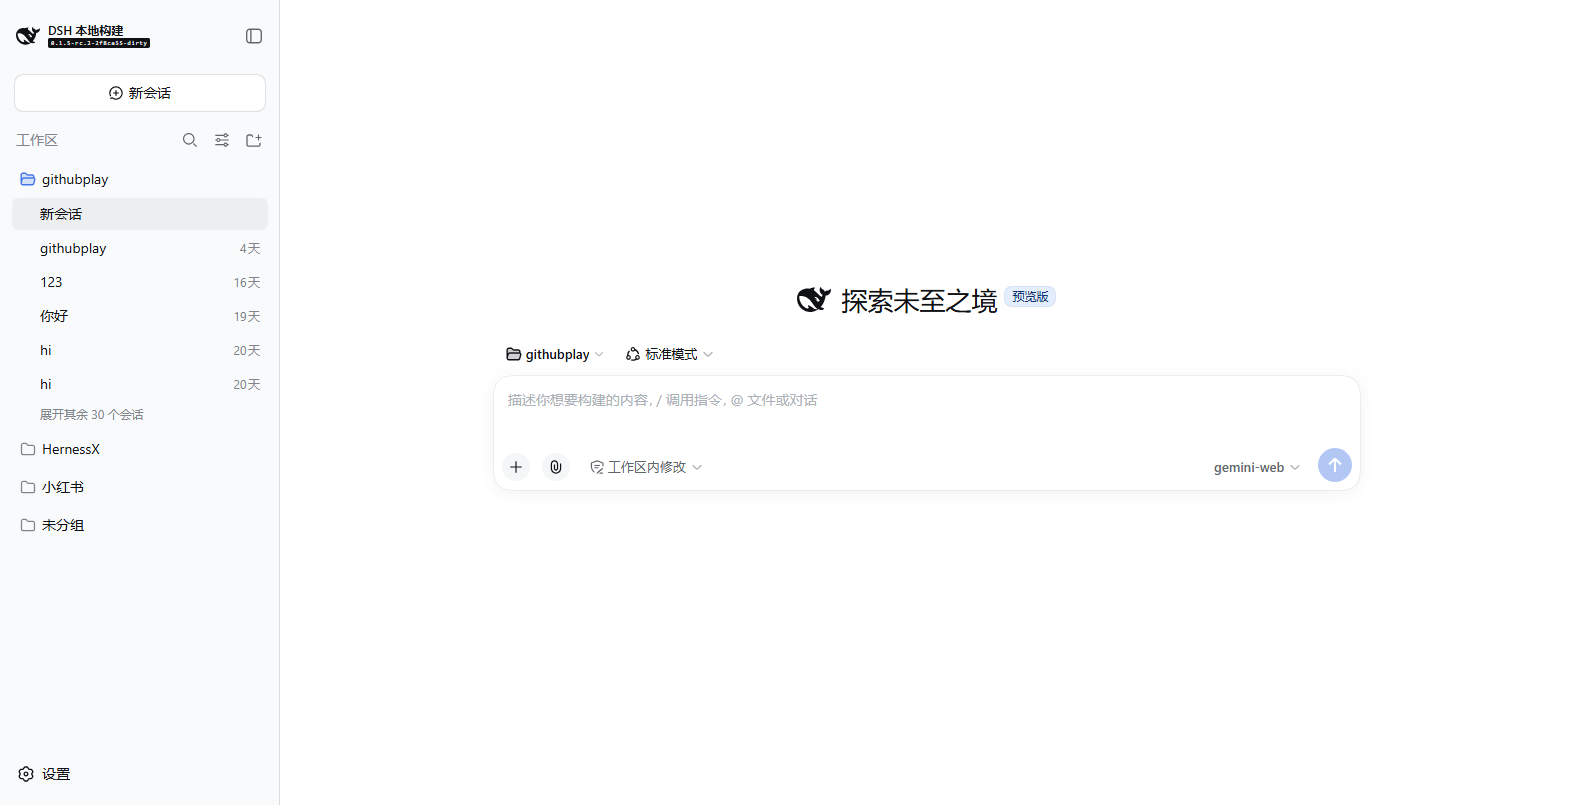
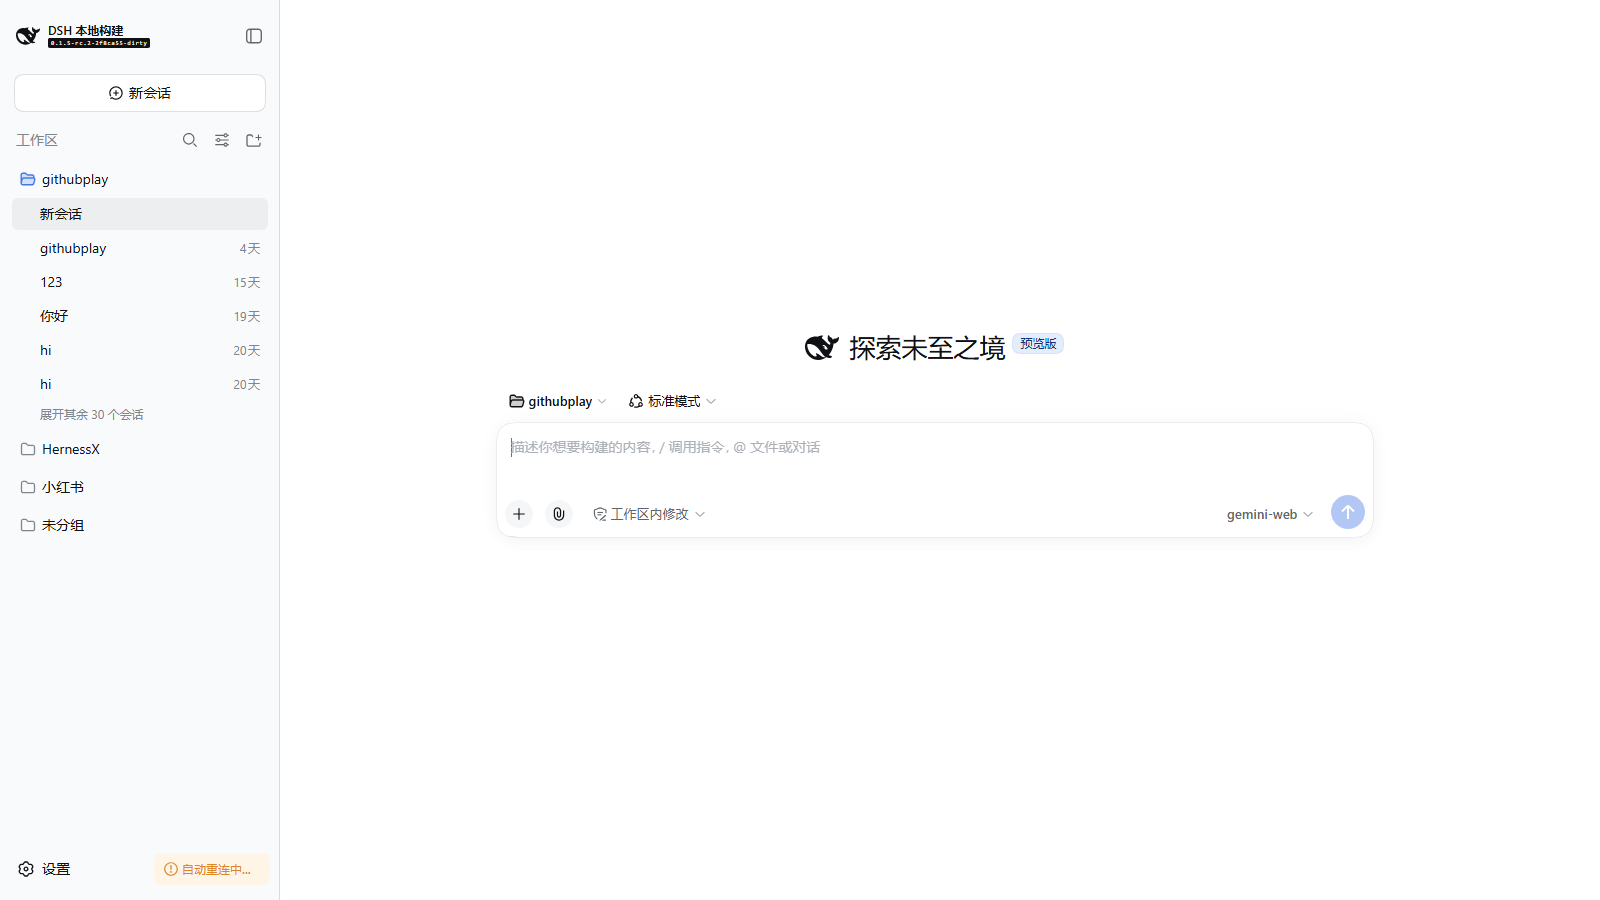
fix: drop the frameless advanced window - native OS frame like compatibility mode
A pixel diff against the kernel's own web profile (running from the
pinned snapshot) showed the interfaces identical except a hard black
strip across the top of the HarnessX window: the transparent/mica/
titleBarOverlay window options from the retired desktop-frame design
left that band above the kernel UI on Windows.

Advanced mode now opens the same native OS frame as compatibility mode
(keeping only the workbench webviewTag), and the body padding that
reserved space for the old overlay is removed. The kernel UI renders
edge to edge exactly as it does in a browser.

diff --git a/tests/window-options.spec.ts b/tests/window-options.spec.ts
@@ -6,7 +6,6 @@ import {
   compatibilityWindowOptions,
   desktopWindowOptions,
 } from '../src/window-options.ts'
-import { WINDOWS_TITLEBAR_HEIGHT } from '../src/window-chrome.ts'
 
 const spec: DesktopShellSpec = {
   mode: 'compatibility',
@@ -78,40 +77,19 @@ describe('compatibility BrowserWindow options', () => {
     )).toThrow('unsupported compatibility window mode advanced')
   })
 
-  it('uses hidden-inset transparent vibrancy on macOS advanced windows', () => {
+  it('keeps the native OS frame on advanced windows like compatibility mode', () => {
     const advanced = { ...spec, mode: 'advanced' as const }
-    const options = advancedWindowOptions(advanced, {} as NativeImage, 'darwin')
-
-    expect(options).toEqual(expect.objectContaining({
-      titleBarStyle: 'hiddenInset',
-      trafficLightPosition: { x: 16, y: 16 },
-      transparent: true,
-      backgroundColor: '#00000000',
-      vibrancy: 'sidebar',
-      visualEffectState: 'followWindow',
-    }))
-    expect(desktopWindowOptions(advanced, {} as NativeImage, 'darwin')).toEqual(options)
-  })
-
-  it('uses native Windows controls, Mica, shadow, and rounded corners in advanced mode', () => {
-    const options = advancedWindowOptions(
-      { ...spec, mode: 'advanced' },
-      {} as NativeImage,
-      'win32',
-    )
-
-    expect(options).toEqual(expect.objectContaining({
-      titleBarStyle: 'hidden',
-      titleBarOverlay: {
-        color: '#00000000',
-        symbolColor: '#7f858f',
-        height: WINDOWS_TITLEBAR_HEIGHT,
-      },
-      backgroundMaterial: 'mica',
-      hasShadow: true,
-      roundedCorners: true,
-      thickFrame: true,
-    }))
+    // The kernel UI is the entire interface now; the former frameless /
+    // transparent / mica window left a hard black strip above it.
+    for (const platform of ['darwin', 'win32'] as const) {
+      const options = advancedWindowOptions(advanced, {} as NativeImage, platform)
+      expect(options).not.toHaveProperty('titleBarStyle')
+      expect(options).not.toHaveProperty('titleBarOverlay')
+      expect(options).not.toHaveProperty('transparent')
+      expect(options).not.toHaveProperty('backgroundMaterial')
+      expect(desktopWindowOptions(advanced, {} as NativeImage, platform)).toEqual(options)
+    }
+    expect(advancedWindowOptions(advanced, {} as NativeImage, 'win32').autoHideMenuBar).toBe(true)
   })
 
   it('keeps renderer isolation while enabling the workbench webview tag', () => {

diff --git a/src/window-options.ts b/src/window-options.ts
@@ -2,7 +2,6 @@
 
 import type { BrowserWindowConstructorOptions, NativeImage } from 'electron'
 import type { DesktopPlatform, DesktopShellSpec } from './runtime.ts'
-import { WINDOWS_TITLEBAR_HEIGHT } from './window-chrome.ts'
 
 /**
  * Build a secure BrowserWindow while preserving the operating system frame.
@@ -53,6 +52,9 @@ export function advancedWindowOptions(
   if (spec.mode !== 'advanced') {
     throw new Error(`harnessx-desktop: unsupported advanced window mode ${spec.mode}`)
   }
+  if (platform === 'linux') {
+    throw new Error('harnessx-desktop: advanced shell mode is supported on macOS and Windows')
+  }
   const options: BrowserWindowConstructorOptions = {
     title: platform === 'win32' ? spec.windowTitle : '',
     width: spec.width,
@@ -71,35 +73,12 @@ export function advancedWindowOptions(
       webviewTag: true,
     },
   }
-  if (platform === 'darwin') {
-    return {
-      ...options,
-      titleBarStyle: 'hiddenInset',
-      trafficLightPosition: { x: 16, y: 16 },
-      transparent: true,
-      backgroundColor: '#00000000',
-      vibrancy: 'sidebar',
-      visualEffectState: 'followWindow',
-    }
-  }
-  if (platform === 'win32') {
-    return {
-      ...options,
-      autoHideMenuBar: true,
-      titleBarStyle: 'hidden',
-      titleBarOverlay: {
-        color: '#00000000',
-        symbolColor: '#7f858f',
-        height: WINDOWS_TITLEBAR_HEIGHT,
-      },
-      backgroundColor: '#00000000',
-      backgroundMaterial: 'mica',
-      hasShadow: true,
-      roundedCorners: true,
-      thickFrame: true,
-    }
-  }
-  throw new Error('harnessx-desktop: advanced shell mode is supported on macOS and Windows')
+  // The kernel UI is now the entire interface, so advanced mode keeps the
+  // same native OS frame as compatibility mode; only webviewTag differs (the
+  // workbench browser tab). The former frameless/mica/overlay window left a
+  // hard black strip above the kernel UI.
+  if (platform === 'win32') options.autoHideMenuBar = true
+  return options
 }
 
 /**

diff --git a/tests/electron-runtime.spec.ts b/tests/electron-runtime.spec.ts
@@ -720,7 +720,7 @@ describe('Electron compatibility runtime', () => {
     expect(electron.dialog.showMessageBox).not.toHaveBeenCalled()
   })
 
-  it('uses advanced macOS material options and offers compatibility mode', async () => {
+  it('keeps the native frame on advanced windows and offers compatibility mode', async () => {
     vi.spyOn(process, 'platform', 'get').mockReturnValue('darwin')
     electron.nativeTheme.themeSource = 'light'
     const { ElectronDesktopRuntime } = await import('../src/electron-runtime.ts')
@@ -735,11 +735,11 @@ describe('Electron compatibility runtime', () => {
     expect(readThemeSource).toHaveBeenCalledOnce()
     expect(electron.browserWindowThemeSources).toEqual(['dark'])
     expect(electron.nativeTheme.themeSource).toBe('dark')
-    expect(electron.browserWindowOptions[0]).toEqual(expect.objectContaining({
-      titleBarStyle: 'hiddenInset',
-      transparent: true,
-      vibrancy: 'sidebar',
+    expect(electron.browserWindowOptions[0]).toEqual(expect.not.objectContaining({
+      titleBarStyle: expect.anything(),
     }))
+    expect(electron.browserWindowOptions[0]).not.toHaveProperty('transparent')
+    expect(electron.browserWindowOptions[0]).not.toHaveProperty('vibrancy')
     expect(electron.menuTemplates[0]).toEqual(expect.arrayContaining([
       expect.objectContaining({ label: 'Quit' }),
     ]))

diff --git a/tests/client-environment.spec.ts b/tests/client-environment.spec.ts
@@ -2,7 +2,6 @@ import { describe, expect, it, vi } from 'vitest'
 import { parseDesktopClientEnvironment } from '../src/client/environment.ts'
 import { installAdvancedStyles } from '../src/client/styles.ts'
 import {
-  MACOS_TITLEBAR_HEIGHT,
   WINDOWS_TITLEBAR_HEIGHT,
 } from '../src/window-chrome.ts'
 
@@ -45,8 +44,6 @@ describe('advanced desktop layout', () => {
       const dispose = installAdvancedStyles()
       expect(css).toContain('html, body, #root { width: 100%; height: 100%; }')
       expect(css).toMatch(/body\[data-dsh-desktop-mode="advanced"\] \{ margin: 0;[^}]*background: transparent !important; \}/)
-      expect(css).toContain(`body[data-dsh-desktop-mode="advanced"][data-dsh-desktop-platform="win32"] #root { padding-top: ${WINDOWS_TITLEBAR_HEIGHT}px; }`)
-      expect(css).toContain(`body[data-dsh-desktop-mode="advanced"][data-dsh-desktop-platform="darwin"] #root { padding-top: ${MACOS_TITLEBAR_HEIGHT}px; }`)
       // The kernel UI renders untouched: no desktop class may leak into it.
       expect(css).not.toMatch(/\.dshDesktop/)
       expect(appendChild).toHaveBeenCalledWith(style)

diff --git a/src/client/styles.ts b/src/client/styles.ts
@@ -1,13 +1,8 @@
-import { MACOS_TITLEBAR_HEIGHT, WINDOWS_TITLEBAR_HEIGHT } from '../window-chrome.ts'
 
 /** Advanced-shell stylesheet kept as a plain string so the package client bundle stays self-contained. */
 const ADVANCED_STYLES = `
 html, body, #root { width: 100%; height: 100%; }
 body[data-dsh-desktop-mode="advanced"] { margin: 0; background: transparent !important; }
-/* The hidden native title bars (Electron overlay on Windows, inset traffic
- * lights on macOS) sit over the kernel UI; shift it down under them. */
-body[data-dsh-desktop-mode="advanced"][data-dsh-desktop-platform="win32"] #root { padding-top: ${WINDOWS_TITLEBAR_HEIGHT}px; }
-body[data-dsh-desktop-mode="advanced"][data-dsh-desktop-platform="darwin"] #root { padding-top: ${MACOS_TITLEBAR_HEIGHT}px; }
 `
 
 /**
